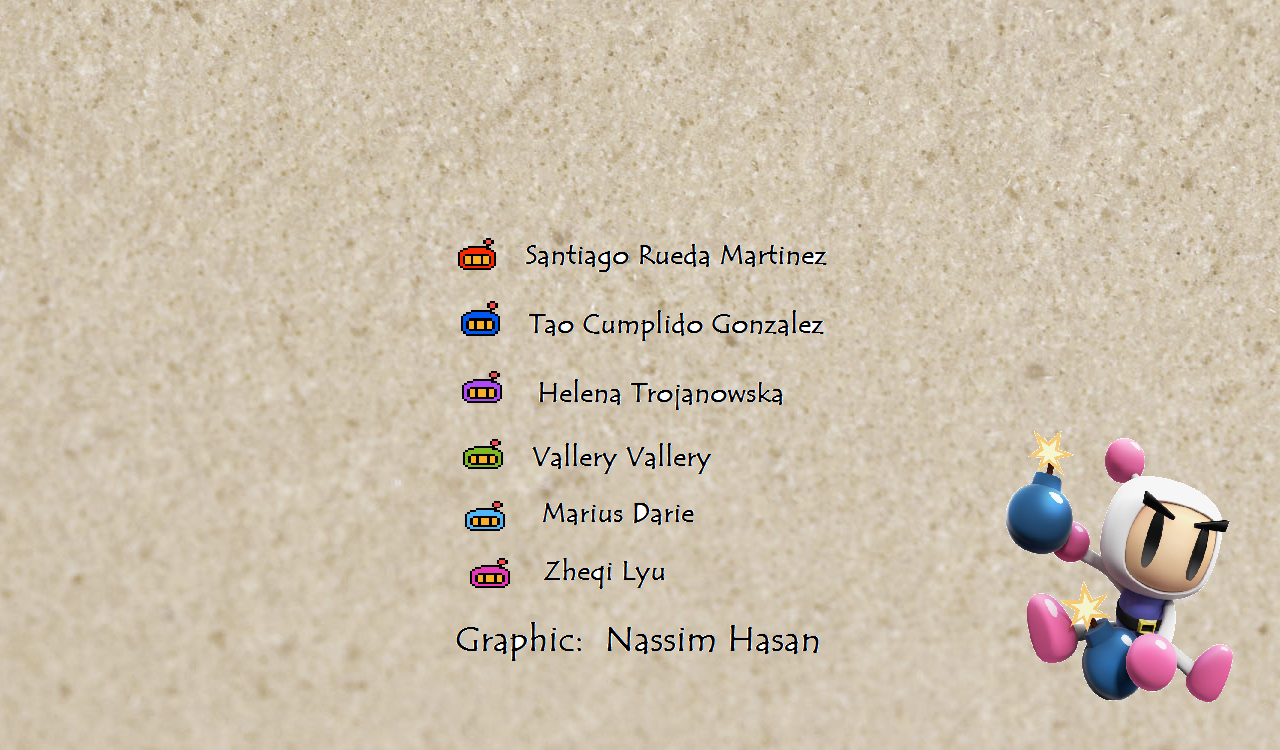
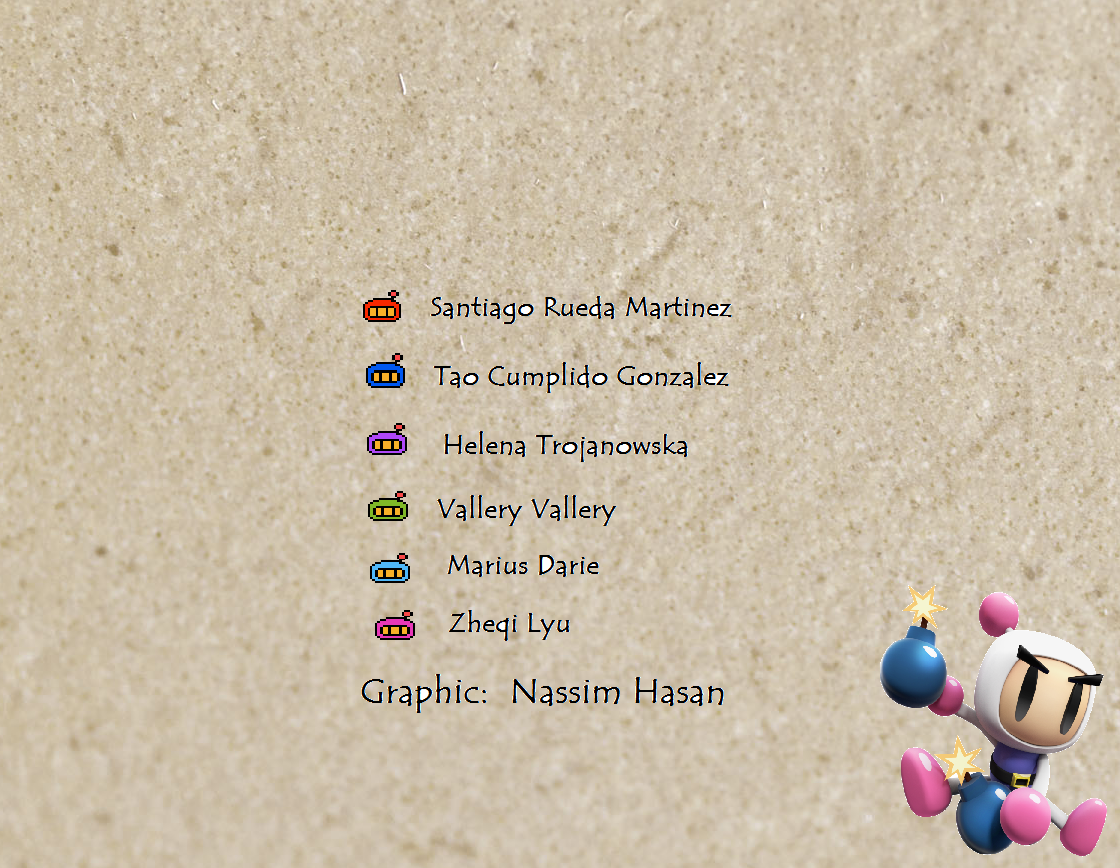
kleine Veraedrung

diff --git a/src/de/hsh/project/bomberman/game/help/HelpMenuState.java b/src/de/hsh/project/bomberman/game/help/HelpMenuState.java
@@ -46,15 +46,15 @@ public class HelpMenuState extends MenuState{
         rules.setBorder(new TitledBorder(lineBorder, "RULES"));
         powerup.setBorder(new TitledBorder(lineBorder,"POWERUP"));
         points.setBorder(new TitledBorder(lineBorder,"SCORING"));
-        rules.setPreferredSize(new Dimension((int) (getPreferredSize().getWidth()*0.8), (int) (getPreferredSize().getHeight()*0.20)));
+        rules.setPreferredSize(new Dimension((int) (getPreferredSize().getWidth()*0.8), (int) (getPreferredSize().getHeight()*0.15)));
         powerup.setPreferredSize(new Dimension((int) (getPreferredSize().getWidth()*0.8), (int) (getPreferredSize().getHeight()*0.20)));
-        points.setPreferredSize(new Dimension((int) (getPreferredSize().getWidth()*0.8), (int) (getPreferredSize().getHeight()*0.20)));
+        points.setPreferredSize(new Dimension((int) (getPreferredSize().getWidth()*0.8), (int) (getPreferredSize().getHeight()*0.15)));
         powerup.setBounds((int) (getPreferredSize().getWidth()*0.1), (int) (getPreferredSize().getHeight()*0.2),
-                (int) (getPreferredSize().getWidth()*0.8), (int) (getPreferredSize().getHeight()*0.20));
+                (int) (getPreferredSize().getWidth()*0.8), (int) (getPreferredSize().getHeight()*0.2));
         rules.setBounds((int) (getPreferredSize().getWidth() * 0.1), (int) (getPreferredSize().getHeight() * 0.45),
-                (int) (getPreferredSize().getWidth() * 0.7), (int) (getPreferredSize().getHeight() * 0.20));
-        points.setBounds((int) (getPreferredSize().getWidth()*0.1), (int) (getPreferredSize().getHeight()*0.7),
-                (int) (getPreferredSize().getWidth()*0.6), (int) (getPreferredSize().getHeight()*0.2));
+                (int) (getPreferredSize().getWidth() * 0.7), (int) (getPreferredSize().getHeight() * 0.15));
+        points.setBounds((int) (getPreferredSize().getWidth()*0.1), (int) (getPreferredSize().getHeight()*0.65),
+                (int) (getPreferredSize().getWidth()*0.6), (int) (getPreferredSize().getHeight()*0.15));
 
         JTextArea ruleText = new JTextArea();
         //ruleText.setEnabled(false);
@@ -80,7 +80,7 @@ public class HelpMenuState extends MenuState{
                 "find remote controls which allow you to detonate your bombs when you want them to. " +
                 "Powerups marked with a question mark contain special abillities but no one knows what will happen.");
         powerupText.setFont(new Font("Arial",1,20));
-        powerupText.setPreferredSize(new Dimension((int) (getPreferredSize().getWidth()*0.7), (int) (getPreferredSize().getHeight()*0.15)));
+        powerupText.setPreferredSize(new Dimension((int) (getPreferredSize().getWidth()*0.7), (int) (getPreferredSize().getHeight()*0.25)));
         powerup.add(powerupText);
 
         JTextArea pointText = new JTextArea();

diff --git a/src/de/hsh/project/bomberman/game/settings/SettingsMenuState.java b/src/de/hsh/project/bomberman/game/settings/SettingsMenuState.java
@@ -2,7 +2,6 @@ package de.hsh.project.bomberman.game.settings;
 
 import de.hsh.project.bomberman.game.Resource;
 import de.hsh.project.bomberman.game.menu.FontImage;
-import de.hsh.project.bomberman.game.menu.FontState;
 import de.hsh.project.bomberman.game.menu.MenuState;
 
 import javax.imageio.ImageIO;
@@ -44,7 +43,7 @@ public class SettingsMenuState extends MenuState {
 
         if (background == null) {
             try {
-                background = ImageIO.read(getClass().getResource("/res/images/coverempty.png"));
+                background = ImageIO.read(getClass().getResource("/res/images/0cover.png"));
             } catch (IOException e) {
                 e.printStackTrace();
             }
@@ -54,7 +53,7 @@ public class SettingsMenuState extends MenuState {
         buildTll();
         buildPlayer();
 
-        reToGame = new FontImage("BACK",3,true);
+        reToGame = new FontImage("BACK",4,true);
         setBackButton(reToGame);
 
 
@@ -67,7 +66,7 @@ public class SettingsMenuState extends MenuState {
         this.setLayout(null);
         tll.setBounds((int)(getPreferredSize().getWidth()*0.1),(int)(getPreferredSize().getHeight()*0.05),
                 (int)(getPreferredSize().getWidth()*0.8),(int)(getPreferredSize().getHeight()*0.1));
-        reToGame.setBounds((int) (getPreferredSize().getWidth()*0.07), (int) (getPreferredSize().getHeight()*0.95),4*8*3,3*8);
+        reToGame.setBounds((int) (getPreferredSize().getWidth()*0.07), (int) (getPreferredSize().getHeight()*0.95),4*8*4,4*8);
         player1.setBounds((int)(getPreferredSize().getWidth()/4*0.125),(int)(getPreferredSize().getHeight()*0.15),
                 (int)(getPreferredSize().getWidth()/4*0.75),(int)(getPreferredSize().getHeight()*0.75));
         player2.setBounds((int)(getPreferredSize().getWidth()/4*1.125),(int)(getPreferredSize().getHeight()*0.15),
@@ -186,8 +185,8 @@ public class SettingsMenuState extends MenuState {
 
     private void setBoard() {
         board = new JComboBox<>();
-        board.addItem("BoardOne");
-        board.addItem("BoardTwo");
+        board.addItem("One");
+        board.addItem("Two");
         board.setSelectedIndex(Settings.getBasicSetting().get(SettingsTyp.BOARD));
         board.addItemListener(e -> {
             Map<SettingsTyp, Integer> map = Settings.getBasicSetting();

diff --git a/src/de/hsh/project/bomberman/game/battlemode/BattleState.java b/src/de/hsh/project/bomberman/game/battlemode/BattleState.java
@@ -12,6 +12,7 @@ import de.hsh.project.bomberman.game.battlemode.player.Player;
 import de.hsh.project.bomberman.game.GameState;
 import de.hsh.project.bomberman.game.highscore.EnterNameState;
 import de.hsh.project.bomberman.game.highscore.HighScore;
+import de.hsh.project.bomberman.game.highscore.HighScoreMenuState;
 import de.hsh.project.bomberman.game.menu.TitleState;
 import de.hsh.project.bomberman.game.settings.Settings;
 import de.hsh.project.bomberman.game.settings.SettingsTyp;
@@ -123,9 +124,11 @@ public class BattleState extends GameState implements Runnable {
             gameIsRunning = false;
 
             if (p.isHuman()) {
-                Game.switchState(new EnterNameState(new HighScore(p.score() + timeDisplay.remainingSeconds() * 100)));
+                new EnterNameState(new HighScore(p.score() + timeDisplay.remainingSeconds() * 100));
+                Game.switchState(new HighScoreMenuState());
             } else {
-                Game.switchState(new TitleState());
+                Game.switchState(new HighScoreMenuState());
+               // Game.switchState(new TitleState());
             }
         }
     }

diff --git a/src/de/hsh/project/bomberman/game/Game.java b/src/de/hsh/project/bomberman/game/Game.java
@@ -1,11 +1,5 @@
 package de.hsh.project.bomberman.game;
 
-import de.hsh.project.bomberman.game.battlemode.BattleState;
-import de.hsh.project.bomberman.game.highscore.EnterNameState;
-import de.hsh.project.bomberman.game.highscore.HighScore;
-import de.hsh.project.bomberman.game.highscore.HighScoreMenuState;
-import de.hsh.project.bomberman.game.menu.IntroState;
-import de.hsh.project.bomberman.game.menu.LoadingState;
 import de.hsh.project.bomberman.game.menu.TitleState;
 
 import javax.swing.*;
@@ -32,17 +26,17 @@ public class Game extends JFrame {
         THIS = this;
 
         setDefaultCloseOperation(WindowConstants.EXIT_ON_CLOSE);
-        setResizable(false);
+         setResizable(false);
 
 
-        //new EnterNameState((new HighScore(null,12,"easy",3,1.2,"one")));
+
         switchState(new TitleState());
-
         // center application window on screen
         int x = (getToolkit().getScreenSize().width - getPreferredSize().width) / 2;
         int y = (getToolkit().getScreenSize().height - getPreferredSize().height) / 2;
 
 
         setLocation(x, y);
+
     }
 }

diff --git a/src/de/hsh/project/bomberman/game/settings/KeyControl.java b/src/de/hsh/project/bomberman/game/settings/KeyControl.java
@@ -46,6 +46,9 @@ public abstract class KeyControl extends KeyAdapter {
                 case KeyEvent.VK_CAPS_LOCK:
                     JOptionPane.showMessageDialog(null, "Please do not use this button!", "Warning", JOptionPane.WARNING_MESSAGE);
                     break;
+                case KeyEvent.VK_CONTROL:
+                    JOptionPane.showMessageDialog(null, "Please do not use this button!", "Warning", JOptionPane.WARNING_MESSAGE);
+                    break;
                 default:
                     setPlayerValue(code);
                     jTextField.setText(text);

diff --git a/src/de/hsh/project/bomberman/game/menu/MenuState.java b/src/de/hsh/project/bomberman/game/menu/MenuState.java
@@ -20,7 +20,7 @@ public abstract class MenuState extends GameState {
     public MenuState() {
         if (BACKGROUND == null) {
             try {
-                BACKGROUND = ImageIO.read(getClass().getResource("/res/images/cover8.png"));
+                BACKGROUND = ImageIO.read(getClass().getResource("/res/images/2cover.png"));
             } catch (IOException e) {
                 e.printStackTrace();
             }

diff --git a/src/de/hsh/project/bomberman/game/menu/TitleState.java b/src/de/hsh/project/bomberman/game/menu/TitleState.java
@@ -36,7 +36,7 @@ public class TitleState extends MenuState {
 
         if (cover == null) {
             try {
-                cover = ImageIO.read(getClass().getResource("/res/images/cover9.png"));
+                cover = ImageIO.read(getClass().getResource("/res/images/1cover.png"));
             } catch (IOException e) {
                 e.printStackTrace();
             }

diff --git a/src/de/hsh/project/bomberman/game/highscore/EnterNameState.java b/src/de/hsh/project/bomberman/game/highscore/EnterNameState.java
@@ -12,7 +12,7 @@ import javax.swing.*;
  */
 
 //  new EnterNameState((new HighScore(null,12,"easy",3,1.2,"one")));
-public class EnterNameState extends MenuState {
+public class EnterNameState  {
 
     public EnterNameState(HighScore highScore) {
         String name = JOptionPane.showInputDialog("Name: ");
